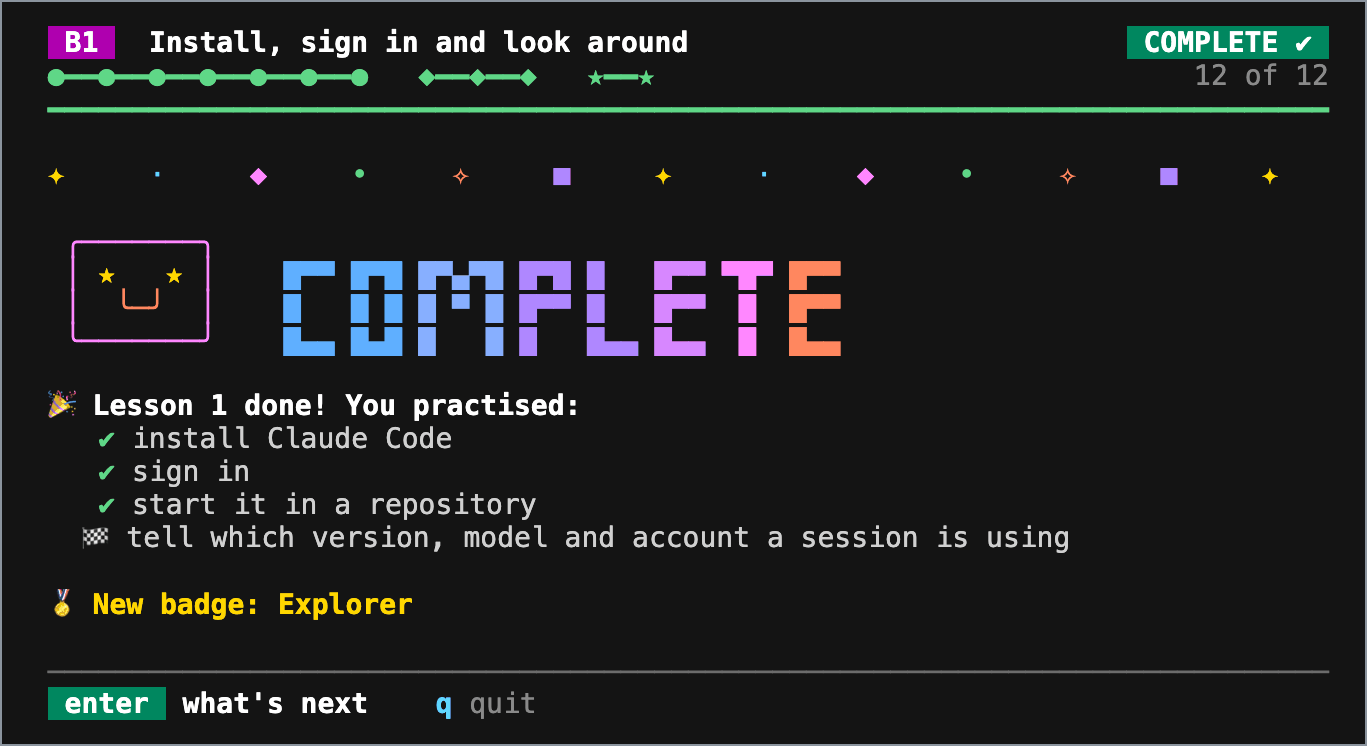
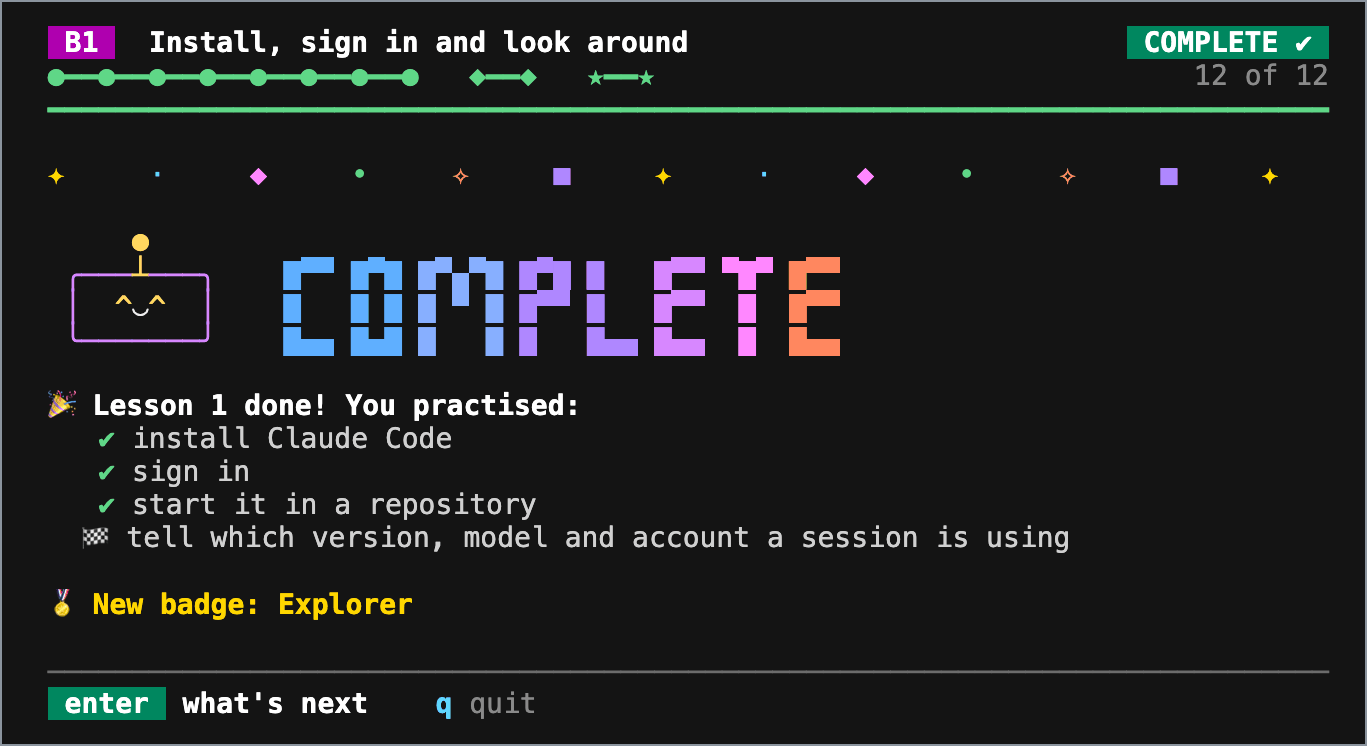
README: the lesson-complete capture shows the new Pip

diff --git a/README.md b/README.md
@@ -3,7 +3,7 @@
 The practice repository for [Claude Code: Everything You Need to Know](https://github.com/wesammustafa/Claude-Code-Everything-You-Need-to-Know). The lessons live in the guide; this repository holds the small app you practice on and a check for every core lesson and capstone.
 
 <p align="center">
-  <!-- Captured from the learning app at template commit f136c1e on 2026-10-16. -->
+  <!-- Captured from the learning app at template commit bb07af7 on 2026-10-17. -->
   <img src=".github/readme/learn-lesson-complete.png" width="640" alt="Each finished lesson lists what you practised, with a flag on the skill the lesson builds to. After Beginner lesson 1: install Claude Code, sign in, start it in a repository, and tell which version, model and account a session is using, plus a new badge, Explorer." />
   <br />
   <sub>The learning app, <code>npm run learn</code>, at the end of Beginner lesson 1.</sub>
